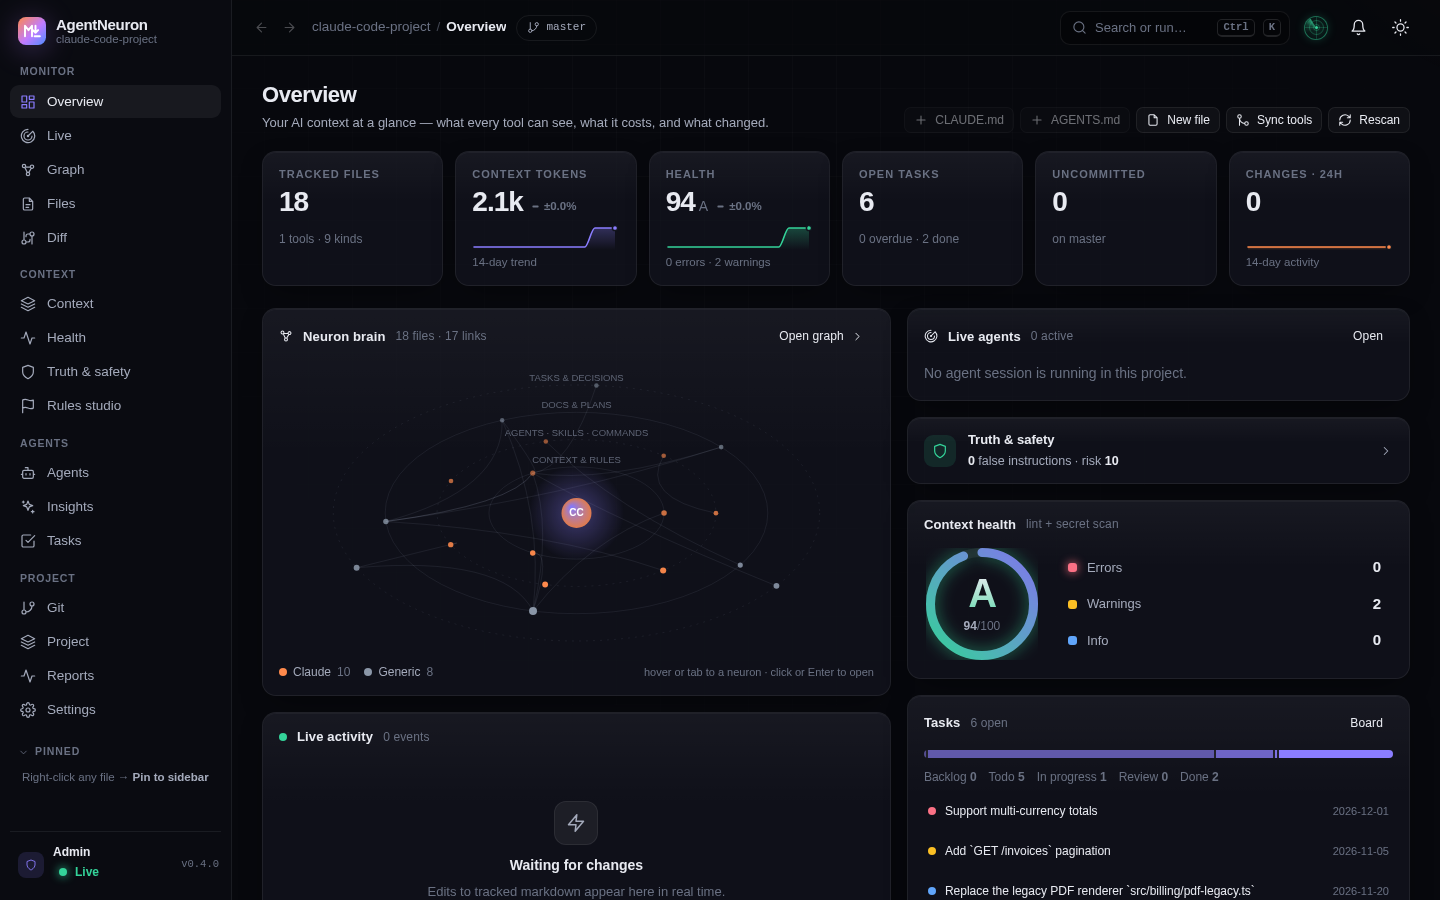
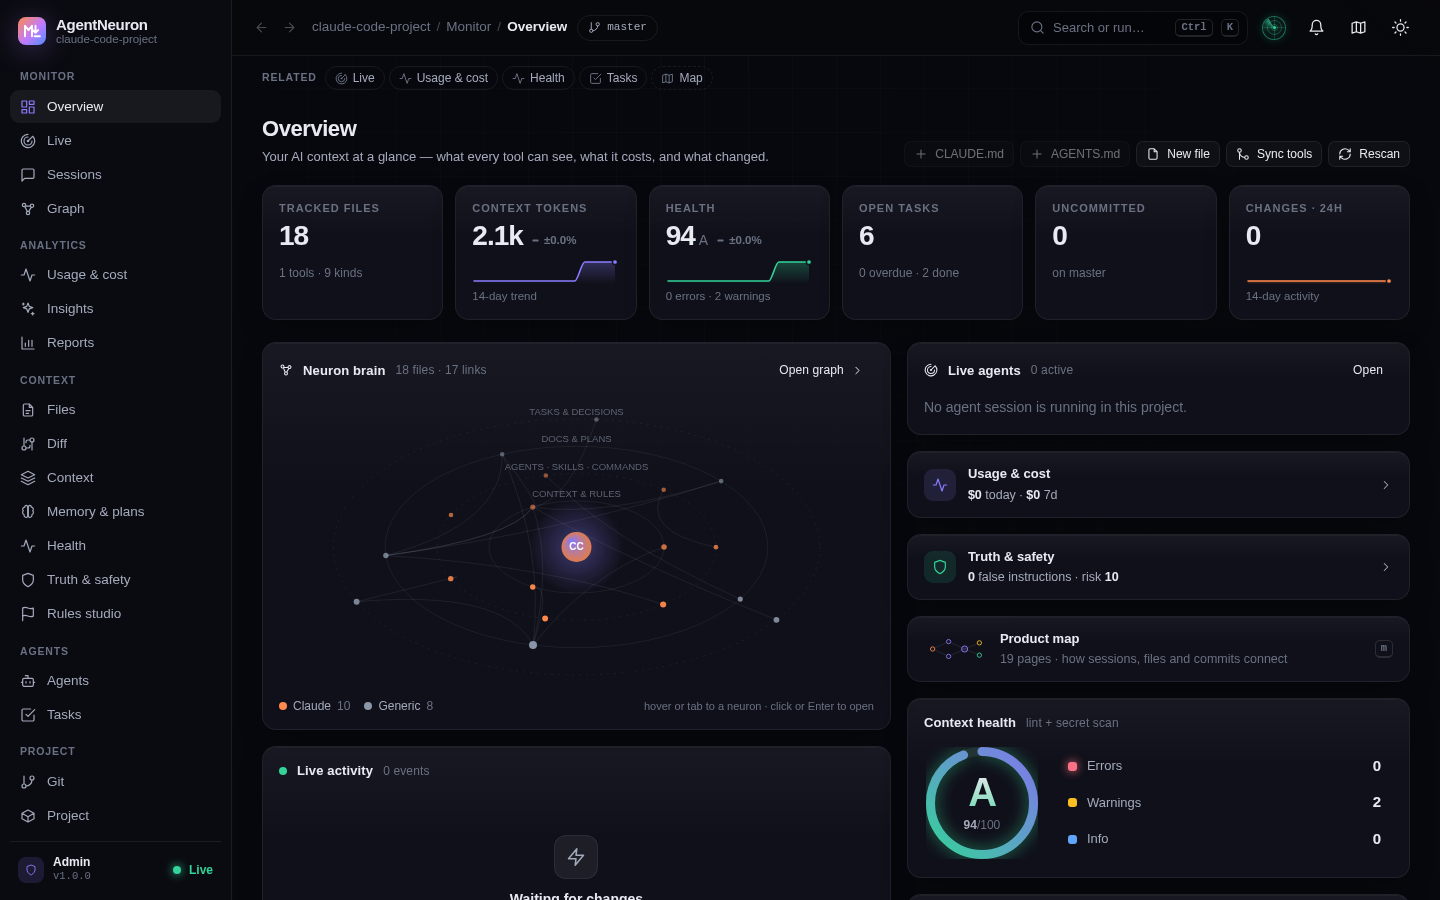
docs: usage, sessions and memory in README, llms.txt, changelog and screenshots

diff --git a/ui/src/mock-usage.js b/ui/src/mock-usage.js
@@ -40,13 +40,13 @@ const forbidden = (msg) => Object.assign(new Error(msg), { status: 403 });
 
 // list prices per million tokens (synthetic, for the estimate path)
 const PRICE = {
-  'claude-opus-4-5': { in: 5, out: 25, cr: 0.5, cw: 6.25 },
-  'claude-sonnet-4-5': { in: 3, out: 15, cr: 0.3, cw: 3.75 },
-  'claude-haiku-4-5': { in: 1, out: 5, cr: 0.1, cw: 1.25 },
+  'claude-opus-5-5': { in: 5, out: 25, cr: 0.5, cw: 6.25 },
+  'claude-sonnet-5-5': { in: 3, out: 15, cr: 0.3, cw: 3.75 },
+  'claude-haiku-5-5': { in: 1, out: 5, cr: 0.1, cw: 1.25 },
   'gpt-5-codex': { in: 1.25, out: 10, cr: 0.125, cw: 0 },
 };
 const costOf = (t, model) => {
-  const p = PRICE[model] || PRICE['claude-sonnet-4-5'];
+  const p = PRICE[model] || PRICE['claude-sonnet-5-5'];
   return ((t.input || 0) * p.in + (t.output || 0) * p.out + (t.cacheRead || 0) * p.cr + (t.cacheWrite || 0) * p.cw) / 1e6;
 };
 const tokSum = (t) => (t.input || 0) + (t.output || 0) + (t.cacheRead || 0) + (t.cacheWrite || 0);
@@ -137,9 +137,9 @@ export function usageRoutes({ sessions }) {
     if (cached && cached.lastAt === s.lastAt) return cached;
     const r = rng(key);
     const tool = s.tool === 'codex' ? 'codex' : 'claude';
-    const main = tool === 'codex' ? 'gpt-5-codex' : r() < 0.7 ? 'claude-opus-4-5' : 'claude-sonnet-4-5';
+    const main = tool === 'codex' ? 'gpt-5-codex' : r() < 0.7 ? 'claude-opus-5-5' : 'claude-sonnet-5-5';
     const subagents = tool === 'claude' && r() < 0.45 ? intR(r, 1, 4) : 0;
-    const models = subagents ? [main, 'claude-haiku-4-5'] : [main];
+    const models = subagents ? [main, 'claude-haiku-5-5'] : [main];
     const tokens = s.tokens || { input: 0, output: 0, cacheRead: 0, cacheWrite: 0 };
     const usd = round2(costOf(tokens, main) * (subagents ? 1.12 : 1));
     const prompts = Math.max(1, Math.round(tokSum(tokens) / 160_000) + intR(r, 1, 6));
@@ -223,9 +223,9 @@ export function usageRoutes({ sessions }) {
           const nm = pickR(r, ['Explore', 'code-reviewer', 'test-writer', 'general-purpose']);
           const dur = Math.round(30_000 + r() * 160_000);
           const tk = Math.round(tokSum(s.tokens) * (0.04 + r() * 0.06));
-          const sUsd = round2(costOf({ input: tk * 0.3, output: tk * 0.06, cacheRead: tk * 0.64 }, 'claude-haiku-4-5'));
-          agents.push({ agentId, name: nm, model: 'claude-haiku-4-5', parent: 'main', startedAt: Math.round(t), endedAt: Math.round(t + dur), turns: intR(r, 4, 22), tokens: tk, usd: sUsd, toolCalls: intR(r, 3, 30) });
-          timeline.push({ id: `t${++id}`, ts: Math.round(t), kind: 'subagent', agentId, model: 'claude-haiku-4-5', text: `${nm}: ${pickR(r, ['map the payments module', 'review the diff for regressions', 'write missing tests', 'find stale commands in docs'])}`, durationMs: dur, tokens: tk, usd: sUsd });
+          const sUsd = round2(costOf({ input: tk * 0.3, output: tk * 0.06, cacheRead: tk * 0.64 }, 'claude-haiku-5-5'));
+          agents.push({ agentId, name: nm, model: 'claude-haiku-5-5', parent: 'main', startedAt: Math.round(t), endedAt: Math.round(t + dur), turns: intR(r, 4, 22), tokens: tk, usd: sUsd, toolCalls: intR(r, 3, 30) });
+          timeline.push({ id: `t${++id}`, ts: Math.round(t), kind: 'subagent', agentId, model: 'claude-haiku-5-5', text: `${nm}: ${pickR(r, ['map the payments module', 'review the diff for regressions', 'write missing tests', 'find stale commands in docs'])}`, durationMs: dur, tokens: tk, usd: sUsd });
           t += dur;
           subLeft--;
           calls++;
@@ -443,7 +443,7 @@ export function usageRoutes({ sessions }) {
         const nodes = d.agents.map((a) => ({ id: a.agentId, name: a.agentId === 'main' ? 'main' : a.name, model: a.model, kind: a.agentId === 'main' ? 'main' : 'subagent', turns: a.turns, tokens: a.tokens, usd: a.usd, toolCalls: a.toolCalls, startedAt: a.startedAt, endedAt: a.endedAt }));
         const edges = nodes.filter((n) => n.id !== 'main').map((n) => ({ from: 'main', to: n.id, kind: 'spawn' }));
         if (hashStr(s.sessionId) % 3 === 0) {
-          nodes.push({ id: 'advisor', name: 'advisor', model: 'claude-opus-4-5', kind: 'advisor', turns: 2, tokens: Math.round(tokSum(s.tokens) * 0.03), usd: round2(s.usd * 0.06), toolCalls: 0, startedAt: s.startedAt + 60_000, endedAt: s.lastAt });
+          nodes.push({ id: 'advisor', name: 'advisor', model: 'claude-opus-5-5', kind: 'advisor', turns: 2, tokens: Math.round(tokSum(s.tokens) * 0.03), usd: round2(s.usd * 0.06), toolCalls: 0, startedAt: s.startedAt + 60_000, endedAt: s.lastAt });
           edges.push({ from: 'main', to: 'advisor', kind: 'advice' });
         }
         return { sessionId: s.sessionId, title: s.title, tool: s.tool, startedAt: s.startedAt, usd: s.usd, model: s.models[0], nodes, edges };

diff --git a/ui/src/mock-usage-shell.js b/ui/src/mock-usage-shell.js
@@ -21,7 +21,7 @@ const ymd = (t) => {
 const TOOLS = [
   ['Read', 412], ['Edit', 238], ['Bash', 196], ['Grep', 151], ['Write', 64], ['Glob', 58], ['TodoWrite', 41], ['Task', 17], ['WebFetch', 9], ['mcp__github__create_pull_request', 6],
 ];
-const MODELS = { claude: ['claude-opus-4-5', 'claude-sonnet-4-5'], codex: ['gpt-5-codex'] };
+const MODELS = { claude: ['claude-opus-5-5', 'claude-sonnet-5-5'], codex: ['gpt-5-codex'] };
 
 export function usageShellRoutes({ sessions, files, commits = () => [], role = () => 'admin' }) {
   const now = Date.now();
@@ -194,7 +194,7 @@ export function usageShellRoutes({ sessions, files, commits = () => [], role = (
   // ---------------------------------------------------------------- settings audit
   const settings = () => ({
     settings: {
-      model: 'claude-opus-4-5', advisorModel: 'claude-opus-4-5', autoMode: true, theme: 'dark',
+      model: 'claude-opus-5-5', advisorModel: 'claude-opus-5-5', autoMode: true, theme: 'dark',
       hooks: { PreToolUse: 2, PostToolUse: 1, Stop: 1 },
       permissions: { allow: ['Bash(pnpm test:*)', 'Bash(git status)', 'Read(**)', 'Edit(apps/**)'], deny: ['Read(.env*)', 'Bash(rm -rf:*)'], ask: ['Bash(git push:*)'] },
     },

diff --git a/README.md b/README.md
@@ -1,6 +1,6 @@
 # AgentNeuron
 
-**AgentNeuron is an open-source, local control center for AI coding-agent context files.** It shows what Claude Code, Codex and other agents are editing in real time, checks that `CLAUDE.md`, `AGENTS.md`, `GEMINI.md`, Cursor rules, Copilot instructions, Windsurf rules, skills and MCP configs are still true and safe, learns rules from your agent sessions, and keeps every tool's rules in sync, in a web dashboard, a CLI and an MCP server.
+**AgentNeuron is an open-source, local control center for AI coding-agent context files.** It shows what Claude Code, Codex and other agents are editing in real time, what every session cost (tokens, cache, tools, subagents) with a step-by-step replay, checks that `CLAUDE.md`, `AGENTS.md`, `GEMINI.md`, Cursor rules, Copilot instructions, Windsurf rules, skills and MCP configs are still true and safe, learns rules from your agent sessions, and keeps every tool's rules in sync, in a web dashboard, a CLI and an MCP server.
 
 [![npm version](https://img.shields.io/npm/v/agentneuron)](https://www.npmjs.com/package/agentneuron)
 [![npm downloads](https://img.shields.io/npm/dm/agentneuron)](https://www.npmjs.com/package/agentneuron)
@@ -39,6 +39,12 @@ AI tools read a growing pile of instruction files, and nobody checks them. Links
 - [Security audit](docs/audit.md) of agent config: unpinned MCP servers, inline tokens, `Bash(*)`, bypass modes, risky hooks, with a 0 to 100 risk score.
 - [Context CI](docs/ci.md): `agentneuron ci` and a GitHub Action that annotate pull requests, with `--base` to report only new problems.
 
+**Track usage and cost**
+- [Usage & cost](docs/usage.md): cost per day, model, branch and agent from your local Claude Code and Codex sessions. Cost is exact where Claude Code recorded it and marked as an estimate where it did not. Also cache hit rate and money saved by caching, tokens, turn times, a daily budget with burn rate, and alerts for cost spikes, repeated tool failures and context jumps.
+- Session replay: every prompt, thinking step (with its duration), tool call, result, error, edit, compaction and subagent of a session on one timeline, with before/after diffs of the files it changed.
+- Tool health: calls, error rate, denials and latency per tool, MCP server and skill, plus hooks, interrupts and loops where the same tool keeps failing.
+- Prompt library (prompts you keep retyping, with a suggested slash command or skill), agent fleet graphs of subagents and advisor calls, code impact per file, and activity patterns (heatmap, hours, focus time).
+
 **Learn from your sessions**
 - [Insights](docs/insights.md): corrections, reverted edits and repeatedly failing commands in Claude/Codex sessions become proposed rules you accept with one click.
 - Rule effectiveness: which rules agents follow, ignore or never need, and a "context diet" with token savings.
@@ -72,7 +78,7 @@ AI tools read a growing pile of instruction files, and nobody checks them. Links
 - Git stage/commit/branch, package and script runner. Commands are spawned without a shell, stream live output and are written to an audit log.
 
 **Integrate**
-- [MCP server](docs/mcp.md) (`agentneuron mcp`) with 16 read-only tools, plus 4 opt-in coordination tools, so your AI agents can query the same data.
+- [MCP server](docs/mcp.md) (`agentneuron mcp`) with 19 read-only tools, plus 4 opt-in coordination tools, so your AI agents can query the same data.
 - HTTP + Server-Sent Events [API](docs/http-api.md).
 - `agentneuron lint --json` for CI ([example workflow](examples/ci/)).
 - Slack/Discord-compatible webhooks for secrets, conflicts, health drops and job results.
@@ -88,6 +94,8 @@ AI tools read a growing pile of instruction files, and nobody checks them. Links
 | **Truth & safety:** instructions that are no longer true | **Insights:** rules learned from your sessions |
 | ![Link graph of CLAUDE.md, skills, subagents and docs grouped by role in AgentNeuron's neural layout](https://raw.githubusercontent.com/TurjoAt/agentneuron/main/docs/assets/graph.png) | ![Tasks board built from Markdown checkboxes in TODO.md, with labels, due dates and links to the source line](https://raw.githubusercontent.com/TurjoAt/agentneuron/main/docs/assets/tasks.png) |
 | **Graph:** how context files link to and import each other | **Tasks:** checkboxes and `TODO:` comments as a board, table, calendar or timeline |
+| ![Usage and cost cockpit: cost with exact and estimated parts, sessions, tool calls, cache hit rate and savings, tokens, lines and turn time over 30 days](https://raw.githubusercontent.com/TurjoAt/agentneuron/main/docs/assets/usage.png) | ![Session replay: time ruler with subagent lanes, stats, and a timeline of prompts, thinking, tool calls and edits](https://raw.githubusercontent.com/TurjoAt/agentneuron/main/docs/assets/session-replay.png) |
+| ![Agent fleet: a session and its subagents as a graph with model, turns, duration and cost per subagent](https://raw.githubusercontent.com/TurjoAt/agentneuron/main/docs/assets/usage-fleet.png) | ![Memory and plans: Claude's saved memories with type badges, links between them and stale-claim warnings](https://raw.githubusercontent.com/TurjoAt/agentneuron/main/docs/assets/memory.png) |
 | ![Reports page with KPIs, activity over time, heatmap and top files by changes, links and tokens](https://raw.githubusercontent.com/TurjoAt/agentneuron/main/docs/assets/reports.png) | ![Agents center with a matrix of AI coding tools against capabilities such as instructions, rules, MCP, hooks and skills](https://raw.githubusercontent.com/TurjoAt/agentneuron/main/docs/assets/agents.png) |
 | **Reports:** activity, heatmap and exports | **Agents:** which tools are set up and what they can use |
 
@@ -159,7 +167,7 @@ Any other Markdown in the project (README, TODO, ROADMAP, ADRs, `docs/`) is trac
 
 ## Use it from your AI agent (MCP)
 
-`agentneuron mcp` is a read-only MCP server on stdio. Its tools: `project_info`, `list_files`, `read_file`, `search`, `get_health`, `get_context`, `recent_changes`, `get_tasks`, `get_links`, `report_export`, `verify_context`, `audit_agent_config`, `suggest_rules`, `compile_preview`, `list_claims`, `get_handoffs`. With `--level state`, agents can also `claim_task`, `claim_files`, `release_files` and write a `handoff_note`. Full reference: [docs/mcp.md](docs/mcp.md).
+`agentneuron mcp` is a read-only MCP server on stdio. Its tools: `project_info`, `list_files`, `read_file`, `search`, `get_health`, `get_context`, `recent_changes`, `get_tasks`, `get_links`, `report_export`, `verify_context`, `audit_agent_config`, `suggest_rules`, `compile_preview`, `get_usage`, `get_session_replay`, `get_tool_health`, `list_claims`, `get_handoffs`. With `--level state`, agents can also `claim_task`, `claim_files`, `release_files` and write a `handoff_note`. Full reference: [docs/mcp.md](docs/mcp.md).
 
 **Claude Code** (CLI, or `.mcp.json` at the project root):
 
@@ -219,6 +227,7 @@ Read [docs/permissions-and-security.md](docs/permissions-and-security.md) before
 | `agentneuron verify [dir]` | Truth check: false commands, paths and versions in context files |
 | `agentneuron audit [dir]` | Security audit of MCP servers, permissions and hooks |
 | `agentneuron ci [dir]` | Lint + verify + audit for pull requests (GitHub annotations) |
+| `agentneuron usage [dir]` | Cost, tokens, cache, tools and alerts from your Claude/Codex sessions |
 | `agentneuron lessons [dir]` | Rules to learn from your Claude/Codex sessions |
 | `agentneuron compile [dir]` | Compile `.agentneuron/rules/` into every tool's files |
 | `agentneuron generate [dir]` | Starter AGENTS.md/CLAUDE.md from the code, every line cited |
@@ -233,13 +242,15 @@ Every flag and exit code is in the [CLI reference](docs/cli.md).
 
 Every file that matches a known AI-tool pattern (`CLAUDE.md`, `AGENTS.md`, `GEMINI.md`, `.cursor/rules`, `.github/copilot-instructions.md`, `.windsurfrules`, skills, subagents, commands, MCP and settings files) plus all other Markdown in the project. It skips `.git`, `node_modules`, `vendor`, `dist`, `build` and similar folders. See [supported tools](docs/supported-tools.md).
 
+For usage and session pages it also reads the session logs Claude Code and Codex keep on your machine (`~/.claude/projects/`, `~/.codex/sessions/`), Claude's memory and plans, and its settings, for the current project only by default. It never reads Claude's login credentials, and text you pasted into prompts is counted, never shown. See [docs/usage.md](docs/usage.md).
+
 ### Does it send my code or files anywhere?
 
 No. There is no telemetry. The only outbound requests are webhooks you configure, commands you run yourself through actions (such as `git fetch`), and the MCP server test.
 
 ### Does it use an AI model or cost tokens?
 
-No. AgentNeuron does not call any model. Token counts are local estimates; session costs are estimated from your own Claude Code and Codex logs.
+No. AgentNeuron does not call any model. Token counts are local estimates. Session costs come from your own Claude Code and Codex logs: exact where Claude Code recorded the cost, otherwise estimated from token usage and marked as an estimate.
 
 ### Will it change my project?
 
@@ -256,6 +267,10 @@ Write each rule once in `.agentneuron/rules/` and run `agentneuron compile`: it 
 ### Can my AI agent use AgentNeuron?
 
 Yes, through the MCP server (`agentneuron mcp`). An agent can ask for the effective context of a folder, broken links, false instructions, open tasks or lessons from past sessions, and (with `--level state`) claim files and leave handoff notes for other agents.
+
+### How much did Claude Code cost me, and where did it go?
+
+Run `npx agentneuron` and open **Usage & cost**, or run `npx agentneuron usage --range 7d` in a terminal. You get cost per day, model, branch and session, the cache hit rate and what caching saved, and alerts for cost spikes or an agent stuck repeating the same failing command. Open any session to replay it step by step.
 
 ### Can I see what Claude Code or Codex is editing right now?
 

diff --git a/CHANGELOG.md b/CHANGELOG.md
@@ -4,6 +4,21 @@ All notable changes to this project are documented here. The format follows [Kee
 
 ## [Unreleased]
 
+### Added
+
+- **Usage & cost** page and `agentneuron usage`: cost per day, model, branch, agent and session from local Claude Code and Codex logs. Cost is exact where Claude Code recorded it (`cost-state`) and marked as an estimate otherwise; every figure reports its coverage. Cache hit rate and savings, tokens, turn times, daily budget with burn rate and projection, alerts (cost spikes, repeated tool failures, context jumps, slow turns, denials) and tips.
+- Usage tabs for tool health (error rate, denials, latency, MCP servers, skills, hooks, failure loops), a prompt library with repeated-prompt suggestions, agent fleet graphs (subagents and advisor), code impact per file and activity patterns.
+- **Sessions** page: every session with filters, and a replay of prompts, thinking (duration), tool calls, results, errors, edits, compactions and subagents on one timeline with a time ruler and before/after file diffs. Replaces the Agents "Sessions & cost" and Insights "Replay" tabs (old links redirect).
+- **Memory & plans** page: Claude's saved memory and plans for the project, links between memories, and warnings for paths a memory mentions that no longer exist.
+- Agent settings audit tab under Truth & safety (permission modes, broad allow rules, MCP servers that need login, hook errors).
+- Details panel for any session, file, commit, task, tool, model or agent, linked from every page; a product map of pages and how their data connects; related-page links on each page; grouped, collapsible sidebar with badges; a bottom bar on phones; entity search in the command palette.
+- Animated first-load screen that shows the real startup steps (connect, sign in, files, analysis, sessions).
+- MCP tools `get_usage`, `get_session_replay` and `get_tool_health`.
+
+### Security
+
+- Usage routes follow the prompt policy (`live.showPrompts`, `live.viewerPrompts`): viewers get no prompt text, titles, thinking or memory bodies, and file versions need `live.viewerDiffs`. Claude's credentials, session keys and pasted prompt content are never read or returned. Other projects' sessions are read only with `"usage": { "scope": "all" }` and the admin role.
+
 ## [1.0.0] - 2026-10-26
 
 From watching context to keeping it true. Includes everything prepared for 0.3.0 below, which was not published separately.
